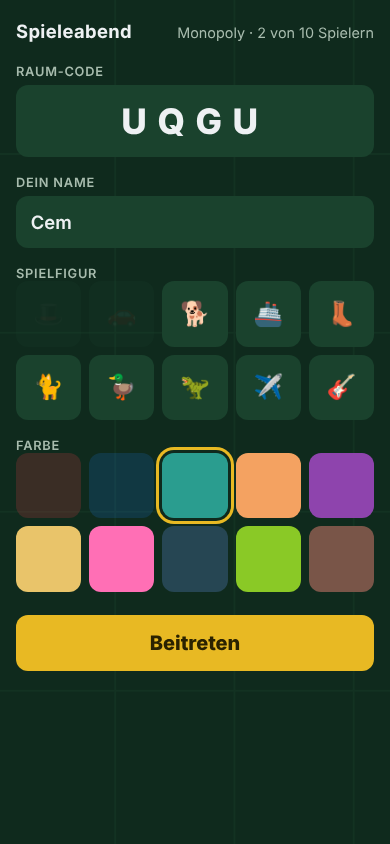
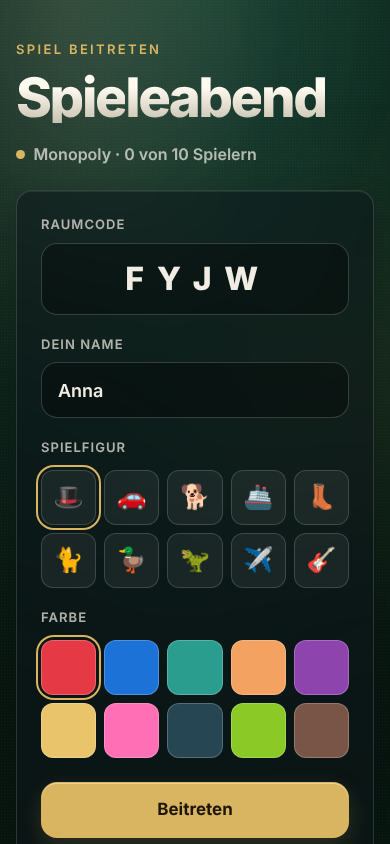
Bildschirmfotos und Doku: neue Lobby und Handy-Beitritt
Claude-Session: https://claude.ai/code/session_01TwzLN21TEFz6fqiYsAZQ7b

diff --git a/docs/spielcenter-plan.md b/docs/spielcenter-plan.md
@@ -51,7 +51,7 @@ Ziel: Aus dem Monopoly-Abend wird ein Spielcenter mit mehreren Spielen.
   - Animationen: Die Engine sammelt Ereignisse (Runde, Blinds, Austeilen, Setzen, Pot einsammeln, Rückgabe, Flop/Turn/River, Aufdecken, Wegwerfen, Gewinn je Pot), das Spielmodul gibt ihnen Startzeit und Dauer, strikt nacheinander; daraus `animUntil`. Der Fernseher rechnet noch nicht begonnene Ereignisse aus dem Stand zurück und zeigt beim Start jedes Ereignisses die Bewegung; die Handys zeigen Neues erst danach. Nächste Runde nach einer kurzen Pause. `prefers-reduced-motion` wird beachtet. Ton über die Web Audio API (Austeilen, Chips, Aufdecken, Gewinn).
   - Handy: eigene Karten verdeckt, Antippen und Halten zeigt sie, Umschalter „Dauerhaft aufdecken“; Pot, Blinds, Dealer, Einsätze, Betrag zum Mitgehen, Liste aller Spieler. Aktionsleiste mit großen Knöpfen: Fold, Check/Call (mit Betrag), Raise mit Regler (Schritte des Small Blinds) und Eingabe auf den Cent, Schnellwahl Min, ½ Pot, Pot, All-in. Zweites Tippen für All-in und für Fold, wenn Check ginge. Vibration bei eigenem Zug und bei Entscheidungen (abschaltbar, Standard an).
   - Speicherformat: Spieltyp `poker`, Version 1, mit Kartenstapel und Handkarten (nur in der Datenbank, nie im Snapshot); Spielstand und laufende Runde überleben einen Neustart.
-  - Bildschirmfotos: `poker-lobby-*`, `poker-tv-preflop-*`, `poker-tv-flop-dealer-*` (Dealer-Button an der Stelle, die der Mitte am nächsten kommt), `poker-tv-showdown-*`, `poker-tv-12-spieler-*`, `poker-endstand-*`, `spiel-beenden-dialog-*`, `poker-handy-verdeckt-390x844`, `poker-handy-aufgedeckt-390x844`, `poker-handy-aktionsleiste-390x844`, `poker-handy-endstand-390x844` in `docs/screenshots/`.
+  - Bildschirmfotos: `lobby-poker-*`, `poker-tv-preflop-*`, `poker-tv-flop-dealer-*` (Dealer-Button an der Stelle, die der Mitte am nächsten kommt), `poker-tv-showdown-*`, `poker-tv-12-spieler-*`, `poker-endstand-*`, `spiel-beenden-dialog-*`, `poker-handy-verdeckt-390x844`, `poker-handy-aufgedeckt-390x844`, `poker-handy-aktionsleiste-390x844`, `poker-handy-endstand-390x844` in `docs/screenshots/`.
 - **Spiel beenden (Host, alle Spiele):** Unauffälliger Knopf „Spiel beenden“ im Kopf jedes Spiels auf der Host-Ansicht, mit Bestätigung („Spiel wirklich beenden?“ – „Ja, beenden“ / „Abbrechen“). Der Server nimmt `board:end`, `board:lobby` und `board:close` nur von der Host-Ansicht an; Handys werden abgelehnt. Jedes Spiel hat `endByHost()` (Phase Ende, kein Sieger) und `summary()` (Endstand, nur Anzeige); der Endstand steht im Snapshot (`final`) und überlebt einen Neustart.
   - Poker: Startguthaben, Nachkäufe, Endguthaben, Gewinn/Verlust (Endguthaben − Startguthaben − Nachkäufe, in Cent), sortiert vom größten Gewinn. Eine laufende Runde wird abgebrochen und alle Einsätze gehen zurück, damit die Summe genau null ist.
   - Risiko: bestehendes Abschlussbild mit Statistik, dazu Gebiete und Armeen; bei vorzeitigem Ende „Spiel vom Host beendet“ ohne Sieger.
@@ -59,11 +59,21 @@ Ziel: Aus dem Monopoly-Abend wird ein Spielcenter mit mehreren Spielen.
   - Danach: Handys zeigen „Das Spiel wurde beendet“ mit Endstand; der Host hat „Zurück zur Lobby“ (gleicher Raum, gleiche Spieler, neues Spiel wählbar) und „Raum schließen“ (mit Bestätigung; der Raum wird gelöscht, auch aus der Datenbank, alle Geräte bekommen Bescheid).
 - **Startseite** (`/`, `public/start/`, Branch `feature/startseite`): „Neues Spiel starten“ legt über `POST /api/rooms` einen Raum an und öffnet die Host-Lobby; „Spiel beitreten“ prüft den Code (`GET /api/rooms/:code`) und führt zu `/play`. Keine Anmeldung. Dauert eine Anfrage länger als 3 s, erscheint „Der Server startet, das dauert bis zu einer Minute.“
   - Eigenständig gestaltet (keine Stile aus `public/shared/`): Kopf mit Wortmarke „Spieleabend“ und den zwei Hauptaktionen, daneben „Spiel beitreten“ als Glas-Karte mit Raumcode in vier Feldern (automatisch weiter, Einfügen, Rücktaste springt zurück, Großbuchstaben, Fehler direkt am Feld), darunter drei Spielflächen und „So geht’s“ in drei Schritten. Am Desktop eine Seite mit klaren Abschnitten, die scrollt; Kopf und Spielflächen-Anfang passen in den ersten Bildschirm.
-  - Animierte Hintergründe nur mit Canvas (`public/start/hintergrund.js`): Risiko als drehende Weltkugel aus Landpunkten (orthografisch, Regionen leuchten in Spielerfarben), Monopoly als Spielfeld in Perspektive mit laufenden Marken und rollenden Würfeln, Poker als Tisch von oben mit Karten und Chips. Die Punktdatei `public/start/globe-points.json` erzeugt `npm run build:globe` (`scripts/build-globe.js`) aus Natural Earth; sie ist deterministisch und unter 150 KB.
+  - Animierte Hintergründe nur mit Canvas (`public/shared/hintergrund.js`, gemeinsam mit der Host-Lobby): Risiko als drehende Weltkugel aus Landpunkten (orthografisch, Regionen leuchten in Spielerfarben), Monopoly als Spielfeld in Perspektive mit laufenden Marken und rollenden Würfeln, Poker als Tisch von oben mit Karten und Chips. Die Punktdatei `public/start/globe-points.json` erzeugt `npm run build:globe` (`scripts/build-globe.js`) aus Natural Earth; sie ist deterministisch und unter 150 KB.
   - Nur eine Fläche läuft mit voller Bildrate, die anderen mit halber; unsichtbare und Hintergrund-Tabs ruhen. Bleibt die Bildzeit schlecht, sinken Auflösung und Punktzahl, Glas wird fest, zuletzt Standbilder. `prefers-reduced-motion` zeigt Standbilder; fehlt die Punktdatei, bleibt ein CSS-Standbild.
   - Bildschirmfotos: `startseite-*` (Start, Eingang, je Spielfläche, Server startet, Fehler; 390×844 und 1920×1080).
   - **Offen (eigener Auftrag):** Die Weckseite `wake/` ist noch eine Kopie des alten Designs und muss an die neue Startseite angeglichen werden.
-- **Lobby und Beitritt** (`public/shared/lobby.css`, `lobby.js`): großer Raumcode mit QR-Code und Adresse, Spieler als Karten in ihrer Farbe („4 von 6“), Spielauswahl als drei gleichwertige Karten mit „X bis Y Spieler“, Einstellungen darunter, Start erst mit genug Spielern. Hintergrund bei Risiko die abgedunkelte Weltkarte, bei Monopoly ein flaches Feldraster, bei Poker ein flaches Rautengitter in Tischgrün. Spielfigur wählt man nur bei Monopoly, sonst vergibt der Server die erste freie. Bildschirmfotos: `lobby-*`, `handy-beitritt-*` in `docs/screenshots/`.
+- **Lobby und Beitritt** (Branch `feature/lobby`; `public/shared/lobby.css`, `lobby.js`, Host-Teil in `public/board/board.js`): im Design der Startseite. Wortmarke, Schrift, Farben, Glas-Flächen, Abstände und Radien sind aus `public/start/start.css` **kopiert** (die Startseite bleibt eigenständig). Verhalten und Server-Schnittstellen sind unverändert.
+  - Host-Ansicht als eine Seite ohne Scrollen (1920×1080, 1366×768, 1024×768; Maße in em, Grundgröße aus Fensterbreite und -höhe). Links Raumcode sehr groß in einer Glas-Karte, daneben der QR-Code mit Adresse, darunter die Spielerliste. Rechts die drei Spiele als große Karten, darunter die Einstellungen und der Start-Knopf.
+  - Spielerliste: jeder Platz als Karte in der Spielerfarbe mit Name, Farbname und bei Monopoly der Spielfigur (sonst Platznummer); neue Spieler gleiten kurz herein. Freie Plätze als dezente Umrisse mit Nummer, Zähler „3 von 6“. Das Raster richtet sich nach der Platzzahl des Spiels (2 bzw. 3 Spalten, bis 12 Plätze).
+  - Spielkarten mit den animierten Hintergründen der Startseite (Weltkugel, Spielfeld, Pokertisch). Der Code liegt in `public/shared/hintergrund.js` und wird von Startseite und Lobby geladen: gleiche Qualitätsstufen (eine Fläche mit voller Bildrate – in der Lobby das gewählte Spiel –, die anderen mit halber; unsichtbar oder Hintergrund-Tab ruht; schlechte Bildzeit senkt Auflösung, macht Glas fest, zuletzt Standbilder; `prefers-reduced-motion` zeigt Standbilder). Die Karten werden einmal gebaut und danach nur umgeschaltet, damit die Szenen nicht neu starten. Auswahl mit Ring in der Spielfarbe und Plakette „Gewählt“, nicht gewählte Karten treten zurück. Auf flachen Karten (16:9) entfällt die Beschreibung, damit die Szene sichtbar bleibt.
+  - Einstellungen gruppiert in einer Glas-Karte: Monopoly (Geld; Minispiele mit Würfelsummen), Risiko (Regeln; Darstellung), Poker (Geld; Ablauf). Die Karte ist immer so hoch wie bei Poker, damit beim Spielwechsel nichts springt.
+  - Start-Knopf groß, erst aktiv mit genug Spielern; darunter, was fehlt („Noch 2 Spieler fehlen – Risiko braucht mindestens 2.“) bzw. „Bereit: …“.
+  - Gesamthintergrund: Stimmung je Spiel (Monopoly warmes Grün, Risiko tiefes Blau, Poker Tischgrün) als Überblendung, dazu die langsam treibenden Lichter der Startseite. Die frühere Weltkarte bzw. die Muster im Hintergrund entfallen.
+  - Bewegung nur mit `transform` und `opacity` (Auswahl über `scale`/`translate` und einen Schleier): gestaffelter Eingang (0,6–0,7 s, cubic-bezier), Wortmarke Buchstabe für Buchstabe, Hover, weicher Auswahlwechsel. `prefers-reduced-motion`: nur kurzes Einblenden, keine treibenden Lichter.
+  - Handy-Beitritt (`/play`): gleiche Gestaltung (Wortmarke, Spiel und Spielerzahl, Formular als Glas-Karte, goldener Knopf), Verhalten unverändert. Spielfigur wählt man nur bei Monopoly, sonst vergibt der Server die erste freie.
+  - Geprüft im Browser (`test/lobby-layout.e2e.test.js`): 0, 4, 8 und 12 Spieler, jedes Spiel gewählt, drei Auflösungen: kein Scrollen, keine Überlappung, nichts ragt aus seiner Karte, kein Konsolenfehler; dazu Handy 390×844 und reduzierte Bewegung.
+  - Bildschirmfotos: `lobby-leer-*`, `lobby-4-spieler-*`, `lobby-12-spieler-*` (1920×1080 und 1024×768), `lobby-monopoly-1920x1080`, `lobby-risiko-1920x1080`, `lobby-poker-1920x1080`, `handy-beitritt-390x844` (Monopoly), `handy-beitritt-risiko-390x844`, `handy-beitritt-voll-390x844` in `docs/screenshots/`.
 - **Räume:**
   - Grenzen gegen Missbrauch: höchstens 20 Räume gleichzeitig, höchstens 5 neue pro Minute und IP. Leere Räume (keine Host-Ansicht, keine Spieler) verschwinden nach 30 Minuten, bei erreichtem Limit schon nach 2 Minuten; laufende Spiele nach 6 h ohne Aktivität. Gelöschte Räume werden auch aus der Datenbank entfernt, beim Start werden höchstens 20 geladen.
   - 4-Buchstaben-Code mit QR-Beitritt
@@ -75,7 +85,7 @@ Ziel: Aus dem Monopoly-Abend wird ein Spielcenter mit mehreren Spielen.
   - Vanilla-JS-Clients ohne Build-Schritt
   - Zustand im Arbeitsspeicher; mit `DATABASE_URL` zusätzlich in Postgres (Neon), siehe Betrieb
 - **Deployment:** `render.yaml` als Web Service im Free-Plan; Build mit `npm install --omit=dev`, Start mit `npm start`, Healthcheck `/healthz`.
-- **Tests:** `npm test` führt nur die Unit-Tests aus (175: Regeln von Monopoly, Risiko, Poker und Minispielen, Spiel-Schnittstelle, Spielauswahl, Neustart-Tests mit gespeicherten Räumen in Version 1 und 2, Prüfung der erzeugten Weltkarte, Animations-Ereignisse, Risiko-Anzeigedaten wie Vorauswahl, Phasentexte und Statistik samt altem Spielstand ohne Statistik, Animationsdauern, Raumlimit, Rate-Limit und Aufräumen leerer Räume, Startseite per HTTP, CORS-Freigabe von `/healthz` für die Weckseite, Wächter für die Testskripte, Punktdatei der Weltkugel). Poker hat 31 eigene Tests (`test/poker.test.js`, `test/poker-modul.test.js`): Handbewertung aller Kategorien mit Kickern und Gleichständen, Side-Pots mit drei und mehr Spielern und mehreren All-ins, Split mit ungeradem Cent, Mindest-Raise und zu kleines All-in, Heads-up, Blinds-Rotation, Aktionen außerhalb des Zuges, Einstellungen, Ablehnung des 13. Spielers, Austeilen mit 12 Spielern, versteckte Karten für jede Rolle auch nach Neustart aus dem Speicher, Zugzeit, Nachkaufen, Spielende und eine Zufallspartie mit festem Seed (über 100 Runden je mit 3, 6 und 12 Spielern), in der Guthaben plus Pot bis auf Nachkäufe konstant bleibt. Dazu `test/poker-layout.test.js` (Tischgeometrie ohne Browser: keine Überlappung mit Sperrzonen und untereinander für 2 bis 12 Spieler, Chip-Flugbahnen) und `test/spiel-beenden.test.js` (nur der Host beendet, Endphase, Neustart, Zurück zur Lobby, Raum schließen inklusive Löschen aus dem Speicher, Poker-Endstand mit Summe null, Monopoly-Vermögen, Risiko-Gebiete). Lokal kommen dazu `npm run test:browser` (Playwright-Durchläufe: Monopoly mit 1 Host-Ansicht und 3 Handys, Lobby, alte Einzelversion, Risiko mit 2 Handys inkl. Vorauswahl auf dem Fernseher, Poker mit 3 Handys (eine Runde, Karten nur am eigenen Handy, Gemeinschaftskarten auf dem Fernseher), Überlappungsprüfung des Poker-Tisches (`poker-layout.e2e`, `poker-layout-viele.e2e`, gemeinsamer Ablauf in `test/poker-layout-messung.js`), Spiel beenden mit Bestätigung, Endstand auf den Handys, Lobby und Raum schließen, Startseite mit Raum anlegen und Beitritt per Code, Weckseite; braucht `CHROMIUM_PATH`; zuletzt 16 von 16 grün mit `/opt/pw-browsers/chromium`) und `npm run test:db` (2 Datenbank-Tests, braucht `DATABASE_URL`). Fehlt die Umgebung, werden diese Tests mit Grund übersprungen. Zeitlimit 60 s pro Testdatei.
+- **Tests:** `npm test` führt nur die Unit-Tests aus (175: Regeln von Monopoly, Risiko, Poker und Minispielen, Spiel-Schnittstelle, Spielauswahl, Neustart-Tests mit gespeicherten Räumen in Version 1 und 2, Prüfung der erzeugten Weltkarte, Animations-Ereignisse, Risiko-Anzeigedaten wie Vorauswahl, Phasentexte und Statistik samt altem Spielstand ohne Statistik, Animationsdauern, Raumlimit, Rate-Limit und Aufräumen leerer Räume, Startseite per HTTP, CORS-Freigabe von `/healthz` für die Weckseite, Wächter für die Testskripte, Punktdatei der Weltkugel). Poker hat 31 eigene Tests (`test/poker.test.js`, `test/poker-modul.test.js`): Handbewertung aller Kategorien mit Kickern und Gleichständen, Side-Pots mit drei und mehr Spielern und mehreren All-ins, Split mit ungeradem Cent, Mindest-Raise und zu kleines All-in, Heads-up, Blinds-Rotation, Aktionen außerhalb des Zuges, Einstellungen, Ablehnung des 13. Spielers, Austeilen mit 12 Spielern, versteckte Karten für jede Rolle auch nach Neustart aus dem Speicher, Zugzeit, Nachkaufen, Spielende und eine Zufallspartie mit festem Seed (über 100 Runden je mit 3, 6 und 12 Spielern), in der Guthaben plus Pot bis auf Nachkäufe konstant bleibt. Dazu `test/poker-layout.test.js` (Tischgeometrie ohne Browser: keine Überlappung mit Sperrzonen und untereinander für 2 bis 12 Spieler, Chip-Flugbahnen) und `test/spiel-beenden.test.js` (nur der Host beendet, Endphase, Neustart, Zurück zur Lobby, Raum schließen inklusive Löschen aus dem Speicher, Poker-Endstand mit Summe null, Monopoly-Vermögen, Risiko-Gebiete). Lokal kommen dazu `npm run test:browser` (Playwright-Durchläufe: Monopoly mit 1 Host-Ansicht und 3 Handys, Lobby, alte Einzelversion, Risiko mit 2 Handys inkl. Vorauswahl auf dem Fernseher, Poker mit 3 Handys (eine Runde, Karten nur am eigenen Handy, Gemeinschaftskarten auf dem Fernseher), Überlappungsprüfung des Poker-Tisches (`poker-layout.e2e`, `poker-layout-viele.e2e`, gemeinsamer Ablauf in `test/poker-layout-messung.js`), Spiel beenden mit Bestätigung, Endstand auf den Handys, Lobby und Raum schließen, Raster der Lobby (`lobby-layout.e2e`: 0 bis 12 Spieler, drei Auflösungen, Handy-Beitritt), Startseite mit Raum anlegen und Beitritt per Code, Weckseite; braucht `CHROMIUM_PATH`; zuletzt 18 von 18 grün mit `/opt/pw-browsers/chromium`) und `npm run test:db` (2 Datenbank-Tests, braucht `DATABASE_URL`). Fehlt die Umgebung, werden diese Tests mit Grund übersprungen. Zeitlimit 60 s pro Testdatei.
 - **Aufräumarbeiten:** `package-lock.json` liegt im Repo. Die alte Pferderennen-Einzelversion liegt in `legacy/`.
 
 ## Entscheidungen
